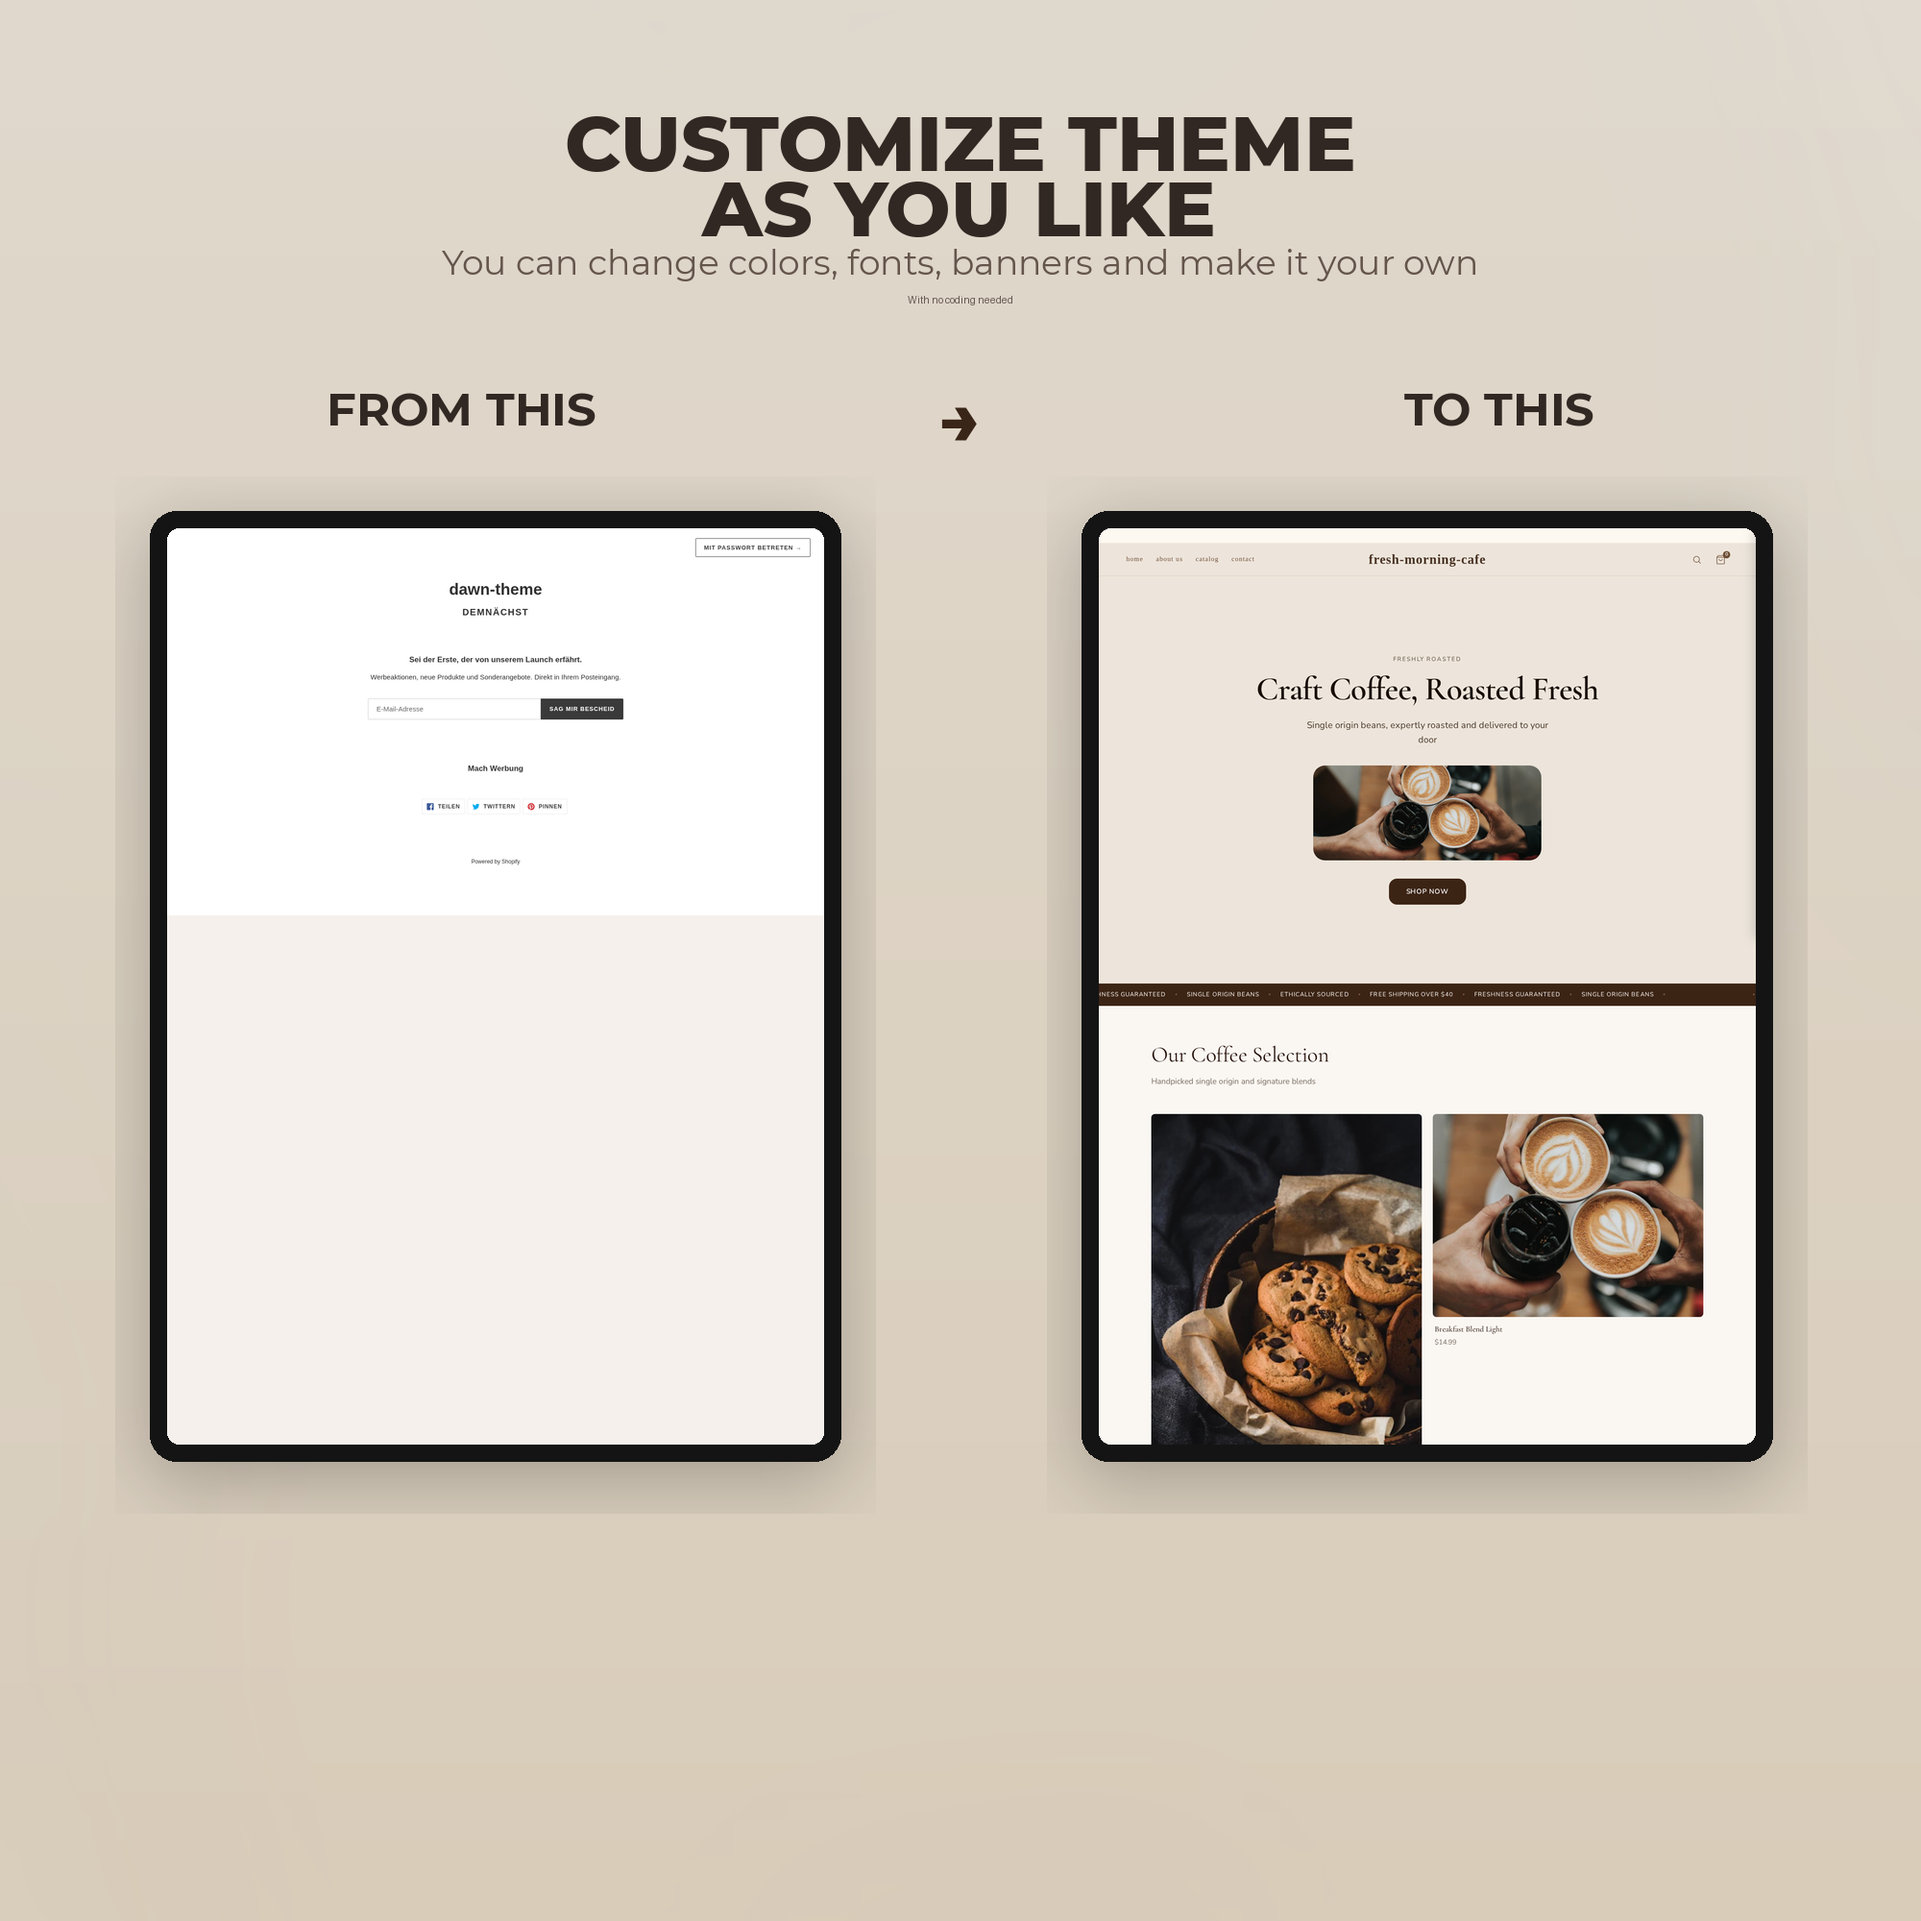
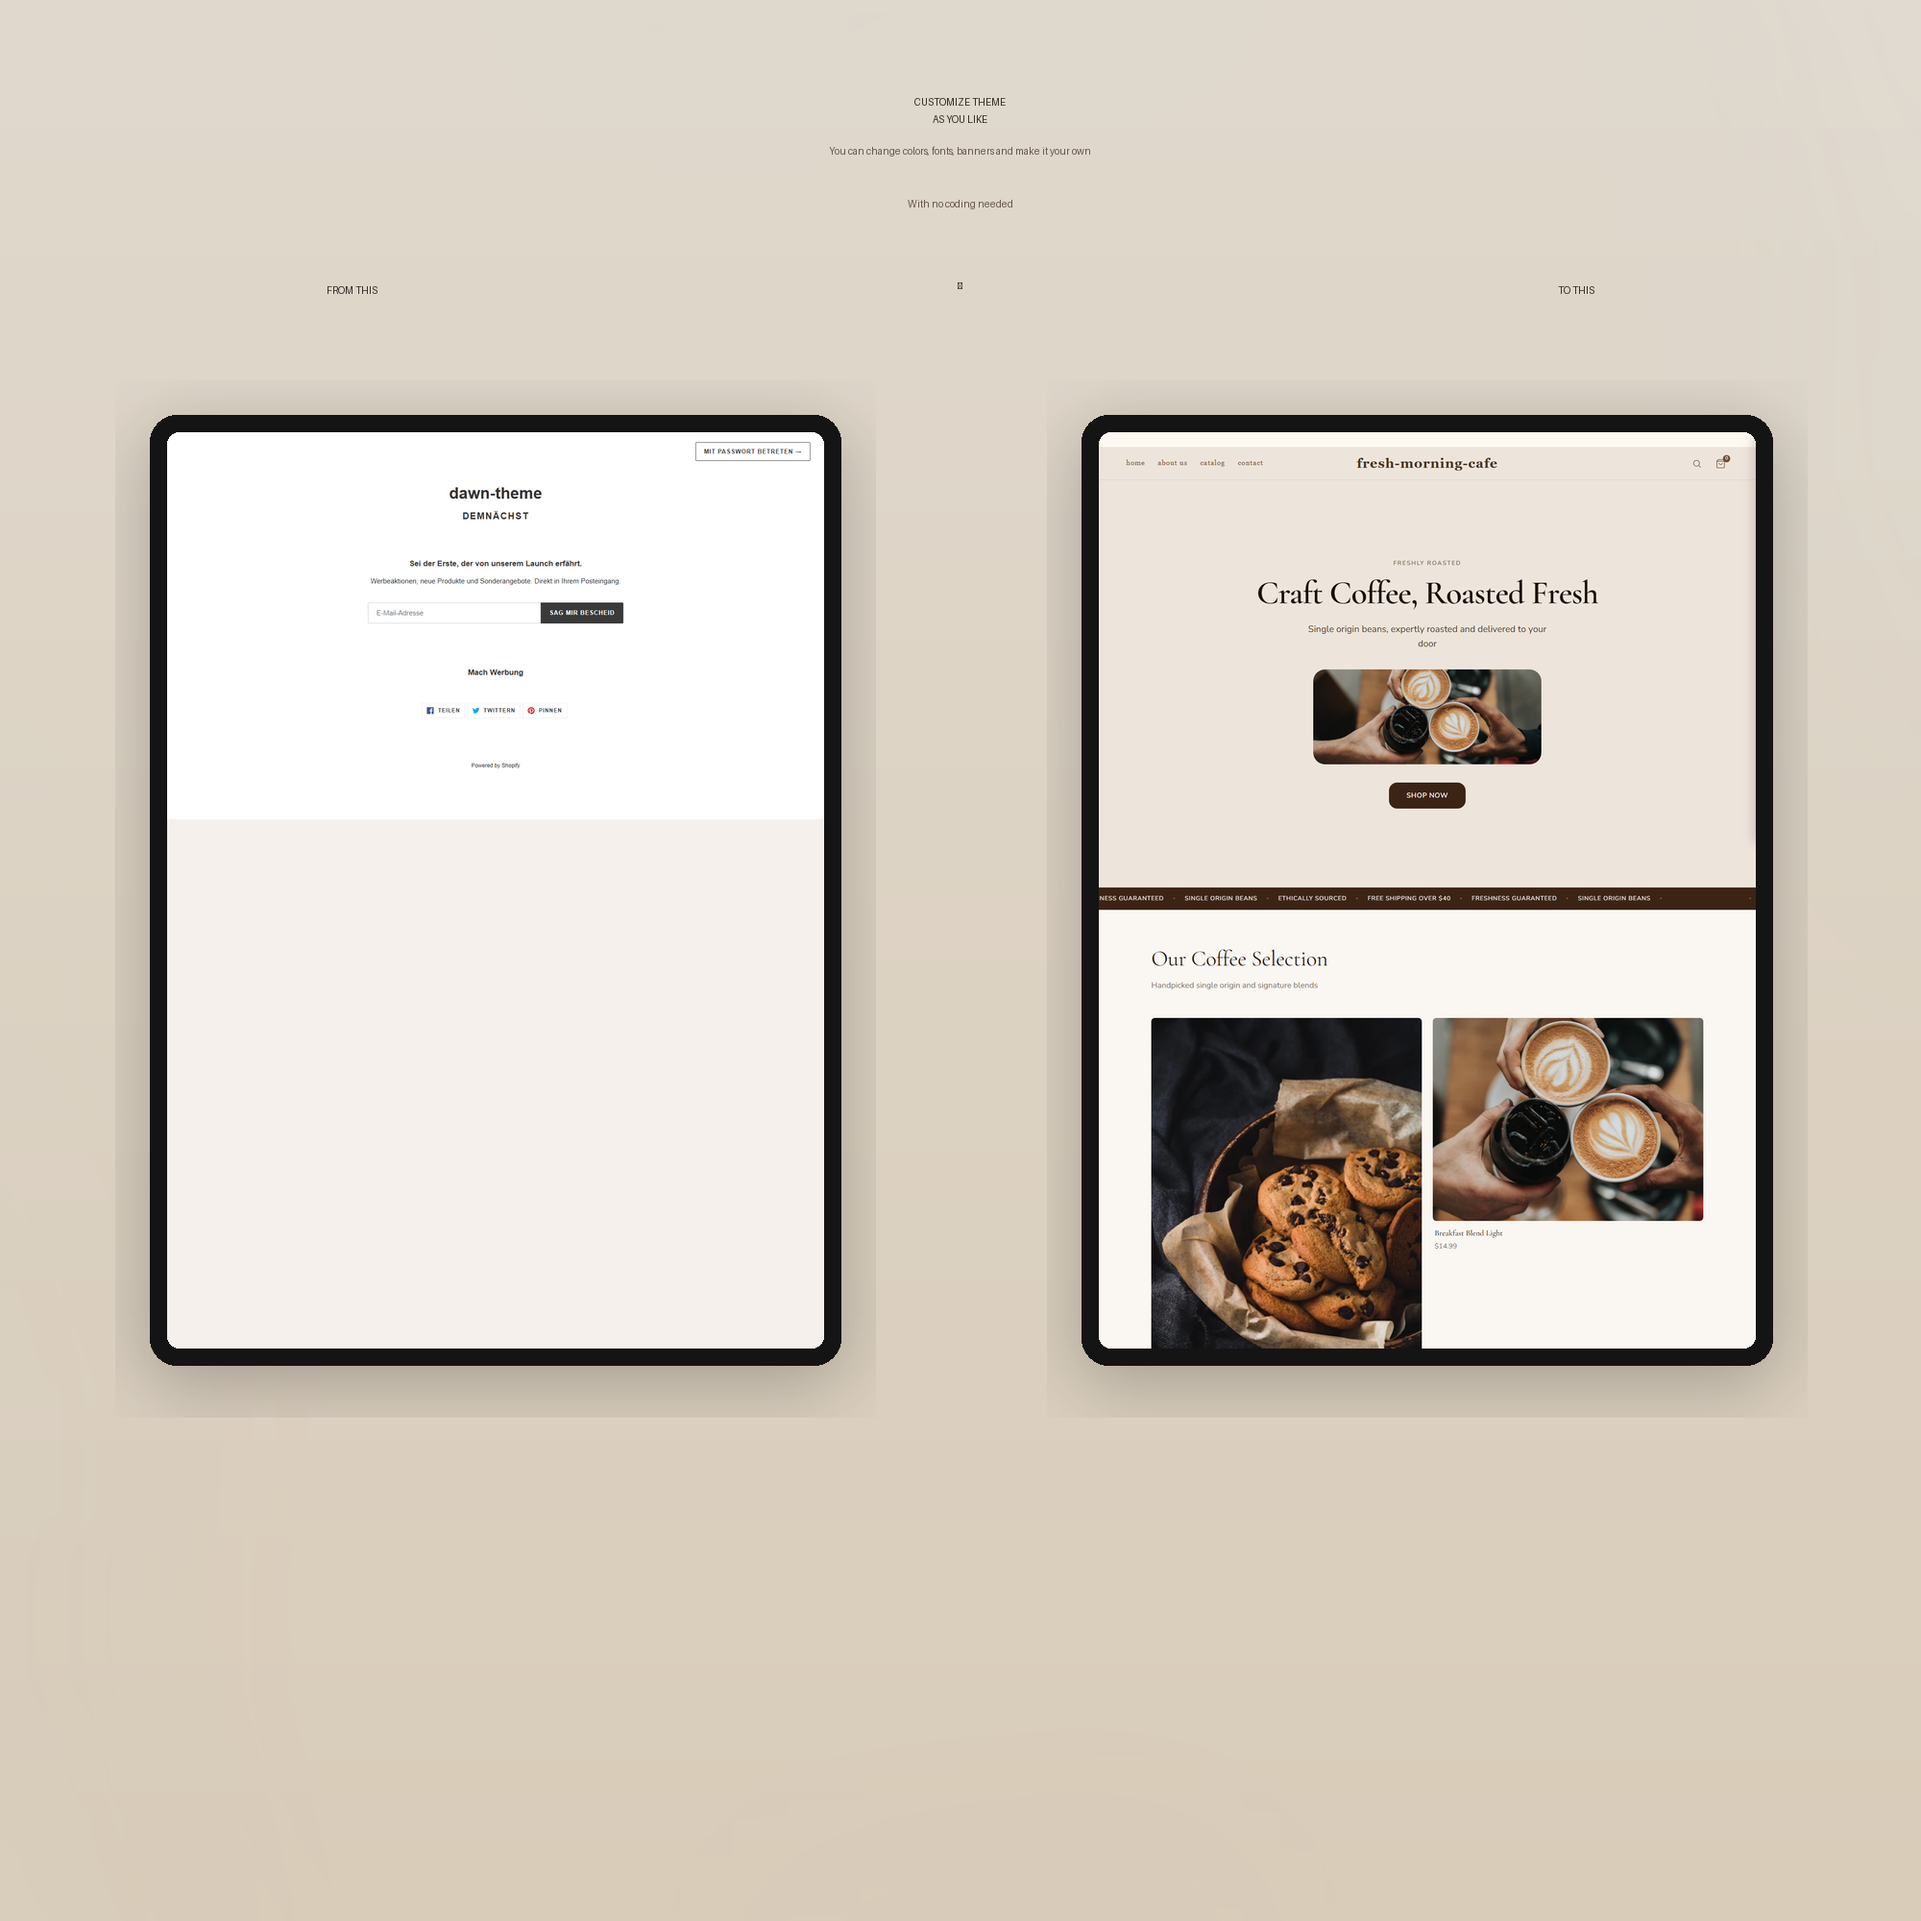
Update Stripe payment links + refresh Fresh Morning screenshots
- Add live Stripe payment links for Caramel and Fresh Morning ($59 each)
- Re-capture Fresh Morning screenshots from demo store
- Add Etsy purchase activation page

diff --git a/activate-etsy.html b/activate-etsy.html
@@ -1,0 +1,176 @@
+<!DOCTYPE html>
+<html lang="en">
+<head>
+  <meta charset="UTF-8">
+  <meta name="viewport" content="width=device-width, initial-scale=1.0">
+  <title>Activate Your Theme — beBriz</title>
+  <meta name="description" content="Activate your beBriz Shopify theme purchased from Etsy. Enter your order number to receive your license key.">
+  <link rel="stylesheet" href="css/main.css">
+  <style>
+    .activate-wrap {
+      max-width: 560px;
+      margin: 80px auto;
+      padding: 48px 40px;
+      background: #ffffff;
+      border-radius: 24px;
+      box-shadow: 0 10px 50px rgba(0,0,0,0.08);
+    }
+    .activate-wrap h1 { font-size: 32px; margin-bottom: 8px; }
+    .activate-wrap .subtitle { color: #666; margin-bottom: 32px; }
+    .activate-wrap label {
+      display: block;
+      font-weight: 600;
+      margin-bottom: 8px;
+      margin-top: 20px;
+    }
+    .activate-wrap input, .activate-wrap select {
+      width: 100%;
+      padding: 14px 16px;
+      border: 1px solid #ddd;
+      border-radius: 12px;
+      font-size: 16px;
+      box-sizing: border-box;
+    }
+    .activate-wrap button {
+      width: 100%;
+      margin-top: 32px;
+      padding: 16px;
+      background: #3A2618;
+      color: white;
+      border: none;
+      border-radius: 12px;
+      font-size: 16px;
+      font-weight: 600;
+      cursor: pointer;
+    }
+    .activate-wrap button:disabled { opacity: 0.5; cursor: not-allowed; }
+    .activate-wrap .result {
+      margin-top: 32px;
+      padding: 24px;
+      background: #F5EFE4;
+      border-radius: 12px;
+      display: none;
+    }
+    .activate-wrap .result.show { display: block; }
+    .activate-wrap .license-key {
+      font-family: 'JetBrains Mono', Menlo, monospace;
+      font-size: 18px;
+      font-weight: 700;
+      color: #3A2618;
+      padding: 16px;
+      background: white;
+      border: 2px dashed #C8956C;
+      border-radius: 8px;
+      text-align: center;
+      margin: 16px 0;
+      word-break: break-all;
+    }
+    .activate-wrap .error {
+      margin-top: 16px;
+      padding: 16px;
+      background: #fee;
+      color: #c33;
+      border-radius: 12px;
+      display: none;
+    }
+    .activate-wrap .error.show { display: block; }
+    .activate-wrap .help {
+      font-size: 14px;
+      color: #888;
+      margin-top: 8px;
+    }
+  </style>
+</head>
+<body>
+  <div class="activate-wrap">
+    <h1>Activate Your Theme</h1>
+    <p class="subtitle">Enter your Etsy order details to receive your license key.</p>
+
+    <form id="activate-form">
+      <label for="order-id">Etsy Order Number</label>
+      <input type="text" id="order-id" name="order_id" placeholder="e.g. 3456789012" required pattern="[0-9]+">
+      <div class="help">Found in your Etsy purchase confirmation email. Digits only.</div>
+
+      <label for="email">Email Address</label>
+      <input type="email" id="email" name="email" placeholder="you@example.com" required>
+      <div class="help">The email you used for your Etsy purchase.</div>
+
+      <label for="theme">Theme (optional)</label>
+      <select id="theme" name="theme">
+        <option value="">Auto-detect from order</option>
+        <option value="caramel">Caramel</option>
+        <option value="brewhaus">BrewHaus</option>
+        <option value="cold-brew">Cold Brew</option>
+        <option value="roast-lab">Roast Lab</option>
+        <option value="luxe-fashion">Luxe Fashion</option>
+        <option value="pawsome">Pawsome</option>
+        <option value="vitaboost">VitaBoost</option>
+        <option value="brilliance">Brilliance</option>
+        <option value="pixelmart">Pixelmart</option>
+        <option value="littlejoy">LittleJoy</option>
+      </select>
+
+      <button type="submit" id="submit-btn">Activate License</button>
+    </form>
+
+    <div class="error" id="error-box"></div>
+
+    <div class="result" id="result-box">
+      <h3>✓ License Activated</h3>
+      <p>Your license key:</p>
+      <div class="license-key" id="license-key"></div>
+      <p style="font-size: 14px; margin-top: 16px;">
+        <strong>How to use:</strong> In your Shopify theme editor, go to
+        <strong>Theme settings → License</strong> and paste this key.
+      </p>
+      <button type="button" onclick="navigator.clipboard.writeText(document.getElementById('license-key').textContent); this.textContent='Copied!'">Copy Key</button>
+    </div>
+  </div>
+
+  <script>
+    const API_URL = 'https://vercel-api-kappa-olive.vercel.app/api/verify-etsy-purchase';
+
+    document.getElementById('activate-form').addEventListener('submit', async function(e) {
+      e.preventDefault();
+      const btn = document.getElementById('submit-btn');
+      const errorBox = document.getElementById('error-box');
+      const resultBox = document.getElementById('result-box');
+      const keyEl = document.getElementById('license-key');
+
+      errorBox.classList.remove('show');
+      resultBox.classList.remove('show');
+      btn.disabled = true;
+      btn.textContent = 'Verifying...';
+
+      const formData = new FormData(e.target);
+      const payload = {
+        order_id: formData.get('order_id'),
+        email: formData.get('email'),
+        theme: formData.get('theme') || undefined,
+      };
+
+      try {
+        const resp = await fetch(API_URL, {
+          method: 'POST',
+          headers: { 'Content-Type': 'application/json' },
+          body: JSON.stringify(payload),
+        });
+        const data = await resp.json();
+
+        if (!resp.ok || !data.success) {
+          throw new Error(data.error || 'Activation failed');
+        }
+
+        keyEl.textContent = data.license_key;
+        resultBox.classList.add('show');
+        btn.textContent = 'Activated';
+      } catch (err) {
+        errorBox.textContent = 'Error: ' + err.message;
+        errorBox.classList.add('show');
+        btn.disabled = false;
+        btn.textContent = 'Activate License';
+      }
+    });
+  </script>
+</body>
+</html>

diff --git a/themes/fresh-morning/index.html b/themes/fresh-morning/index.html
@@ -36,7 +36,7 @@
         <div class="price-tag">$59</div>
         <p class="price-note">One-time payment &middot; Lifetime updates included</p>
         <div class="btn-group">
-          <a href="#" class="btn btn-primary btn-lg">Buy Now</a>
+          <a href="https://buy.stripe.com/14AfZi9HsdSwfes4Jt4gg0j" target="_blank" rel="noopener" class="btn btn-primary btn-lg">Buy Now</a>
           <a href="../../demo-redirect.html?store=https://fresh-morning-cafe.myshopify.com/&pw=moon" target="_blank" rel="noopener" class="btn btn-outline btn-lg">Live Preview</a>
         </div>
         <div class="badge-row">
@@ -362,7 +362,7 @@
     <div class="container">
       <h2 class="section-title" style="margin-bottom: 24px;">Start Building Your Dream Store</h2>
       <p class="section-subtitle" style="margin-bottom: 40px;">One-time payment. Lifetime updates. No recurring fees.</p>
-      <a href="#" class="btn btn-primary btn-lg">$59 &mdash; Get Fresh Morning</a>
+      <a href="https://buy.stripe.com/14AfZi9HsdSwfes4Jt4gg0j" target="_blank" rel="noopener" class="btn btn-primary btn-lg">$59 &mdash; Get Fresh Morning</a>
     </div>
   </section>
 

diff --git a/themes/caramel/index.html b/themes/caramel/index.html
@@ -36,7 +36,7 @@
         <div class="price-tag">$59</div>
         <p class="price-note">One-time payment &middot; Lifetime updates included</p>
         <div class="btn-group">
-          <a href="#" class="btn btn-primary btn-lg">Buy Now</a>
+          <a href="https://buy.stripe.com/cNi6oI3j401G8Q41xh4gg0i" target="_blank" rel="noopener" class="btn btn-primary btn-lg">Buy Now</a>
           <a href="../../demo-redirect.html?store=https://caramel-demo.myshopify.com/&pw=moon" target="_blank" rel="noopener" class="btn btn-outline btn-lg">Live Preview</a>
         </div>
         <div class="badge-row">
@@ -362,7 +362,7 @@
     <div class="container">
       <h2 class="section-title" style="margin-bottom: 24px;">Start Building Your Dream Store</h2>
       <p class="section-subtitle" style="margin-bottom: 40px;">One-time payment. Lifetime updates. No recurring fees.</p>
-      <a href="#" class="btn btn-primary btn-lg">$59 &mdash; Get Caramel</a>
+      <a href="https://buy.stripe.com/cNi6oI3j401G8Q41xh4gg0i" target="_blank" rel="noopener" class="btn btn-primary btn-lg">$59 &mdash; Get Caramel</a>
     </div>
   </section>
 
